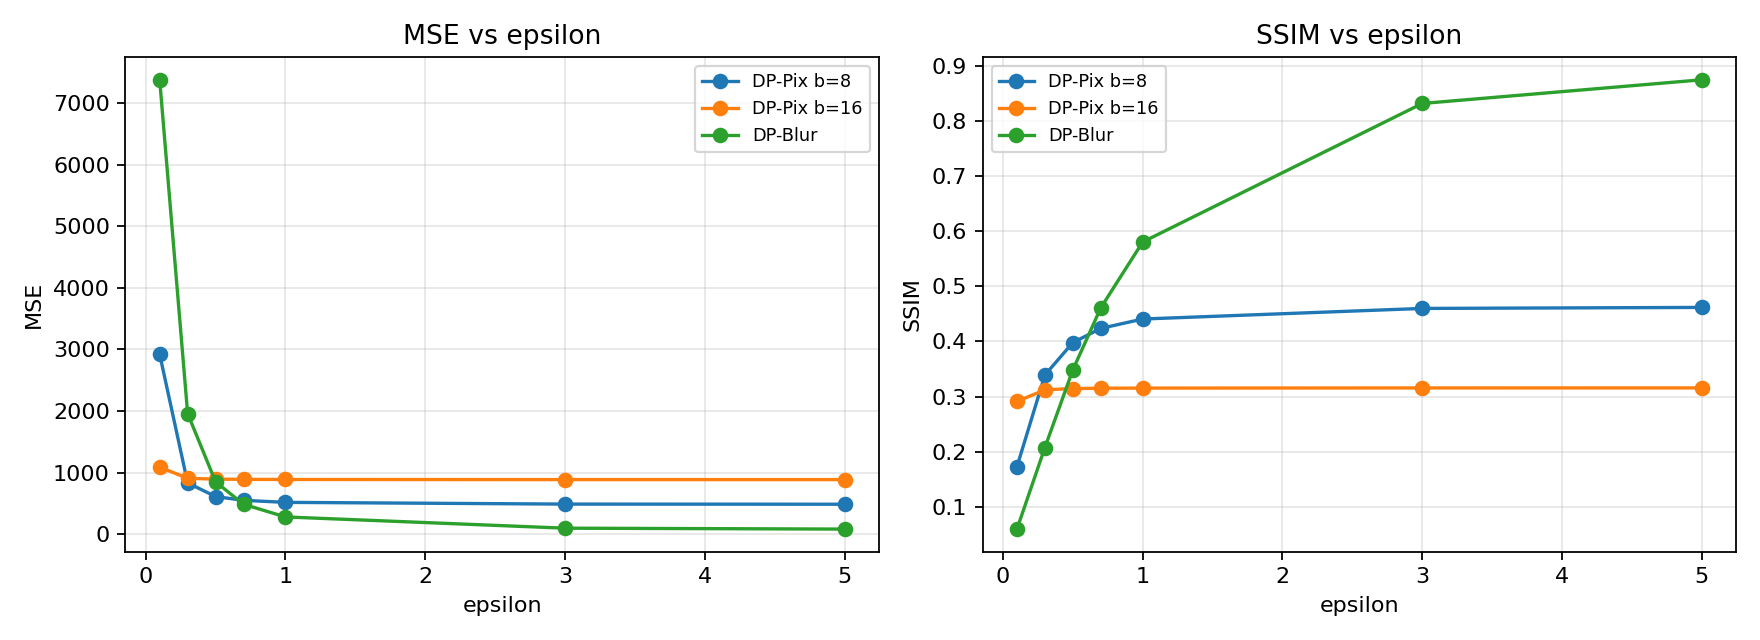
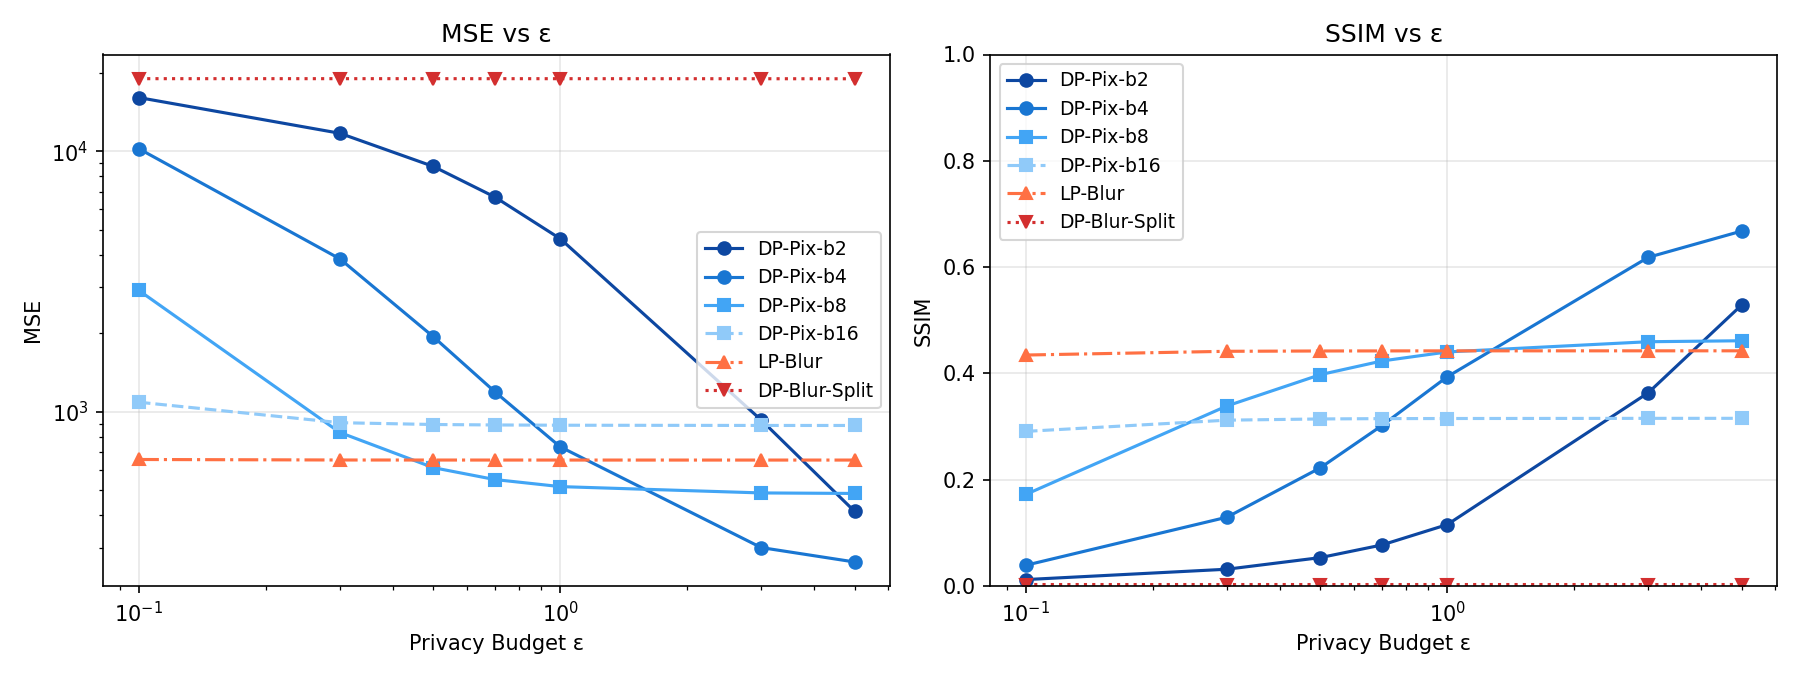
fix(plot_curves): rewrite to read metrics CSVs instead of regenerating
The old plot_curves.py imported a removed single-mechanism dp_blur and
regenerated all DP images from scratch every call. After the DP overhaul
that script no longer worked.

New behavior:
* Read data/dp/metrics.csv for MSE/SSIM and produce dp_metrics_curves.png
  with 6 method lines (DP-Pix b∈{2,4,8,16}, LP-Blur k=45, DP-Blur-Split
  k=45). Log x-axis, log-MSE / linear-SSIM.
* Read reports/dp_evaluation.csv for Top-1 attack accuracy and produce
  dp_attack_accuracy.png; gracefully skips if the CSV is missing so the
  metrics plot still works pre-training-completion.
* Accepts --metrics / --attack aliases for parity with docs/RESUME.md.

Regenerates figures/dp_metrics_curves.png to match the new metrics.csv
(46-row file with 4 b values + 2 blur mechanisms).

diff --git a/scripts/plot_curves.py b/scripts/plot_curves.py
@@ -1,152 +1,210 @@
-import numpy as np
-import cv2
+"""Plot DP utility curves (MSE/SSIM vs epsilon) and DP attack accuracy.
+
+Reads pre-computed CSVs — does NOT regenerate any DP images:
+  * --metrics-csv  (data/dp/metrics.csv)  : method, k, epsilon, MSE, SSIM, n
+  * --attack-csv   (reports/dp_evaluation.csv) : dataset, top1_acc, ...
+
+Outputs:
+  * figures/dp_metrics_curves.png    — MSE and SSIM vs ε per method
+  * figures/dp_attack_accuracy.png   — Top-1 attack accuracy vs ε per method
+"""
+
+from __future__ import annotations
+
+import argparse
 import csv
-import matplotlib.pyplot as plt
-from pathlib import Path
 from collections import defaultdict
-from skimage.metrics import structural_similarity, mean_squared_error
+from pathlib import Path
 
-from dp_pixelization import dp_pixelization
-from dp_blur import dp_blur
-
-EPSILONS    = [0.1, 0.3, 0.5, 0.7, 1.0, 3.0, 5.0]
-BLOCK_SIZES = [8, 16]
-SRC_ROOT    = "data/att_faces"
-OUT_ROOT    = "output"
+import matplotlib.pyplot as plt
 
 
-# ── 1. 載入影像 ────────────────────────────────────────────────────────────────
+# Method display order, marker, line style, and color
+STYLES = {
+    "DP-Pix-b2":      {"marker": "o", "linestyle": "-",  "color": "#0D47A1"},
+    "DP-Pix-b4":      {"marker": "o", "linestyle": "-",  "color": "#1976D2"},
+    "DP-Pix-b8":      {"marker": "s", "linestyle": "-",  "color": "#42A5F5"},
+    "DP-Pix-b16":     {"marker": "s", "linestyle": "--", "color": "#90CAF9"},
+    "LP-Blur":        {"marker": "^", "linestyle": "-.", "color": "#FF7043"},
+    "DP-Blur-Split":  {"marker": "v", "linestyle": ":",  "color": "#D32F2F"},
+}
 
-def load_images(src_root: str):
-    src = Path(src_root)
-    imgs = []
-    for pgm in sorted(src.rglob("*.pgm")):
-        img = cv2.imread(str(pgm), cv2.IMREAD_GRAYSCALE)
-        imgs.append((pgm, img))
-    return imgs
-
-
-def calc_metrics(original: np.ndarray, processed: np.ndarray):
-    mse  = mean_squared_error(original, processed)
-    ssim = structural_similarity(original, processed, data_range=255)
-    return mse, ssim
-
-
-# ── 2. ε 掃描 + 存 CSV ─────────────────────────────────────────────────────────
-
-def run_scan():
-    images = load_images(SRC_ROOT)
-    rows = []
-
-    for eps in EPSILONS:
-        # DP-Pixelization
-        for b in BLOCK_SIZES:
-            mse_list, ssim_list = [], []
-            dst = Path(OUT_ROOT) / f"dp_pix_b{b}" / f"eps{eps}"
-            dst.mkdir(parents=True, exist_ok=True)
-
-            for pgm, img in images:
-                result = dp_pixelization(img, b, eps)
-                rel = pgm.relative_to(SRC_ROOT)
-                out_path = dst / rel.with_suffix(".png")
-                out_path.parent.mkdir(parents=True, exist_ok=True)
-                cv2.imwrite(str(out_path), result)
-
-                mse, ssim = calc_metrics(img, result)
-                mse_list.append(mse)
-                ssim_list.append(ssim)
-
-            rows.append({
-                "method":  f"DP-Pix-b{b}",
-                "epsilon": eps,
-                "MSE":     float(np.mean(mse_list)),
-                "SSIM":    float(np.mean(ssim_list)),
-            })
-            print(f"DP-Pix b={b}  ε={eps}  MSE={rows[-1]['MSE']:.2f}  SSIM={rows[-1]['SSIM']:.4f}")
-
-        # DP-Blur
-        mse_list, ssim_list = [], []
-        dst = Path(OUT_ROOT) / "dp_blur" / f"eps{eps}"
-        dst.mkdir(parents=True, exist_ok=True)
-
-        for pgm, img in images:
-            result = dp_blur(img, eps)
-            rel = pgm.relative_to(SRC_ROOT)
-            out_path = dst / rel.with_suffix(".png")
-            out_path.parent.mkdir(parents=True, exist_ok=True)
-            cv2.imwrite(str(out_path), result)
-
-            mse, ssim = calc_metrics(img, result)
-            mse_list.append(mse)
-            ssim_list.append(ssim)
-
-        rows.append({
-            "method":  "DP-Blur",
-            "epsilon": eps,
-            "MSE":     float(np.mean(mse_list)),
-            "SSIM":    float(np.mean(ssim_list)),
-        })
-        print(f"DP-Blur      ε={eps}  MSE={rows[-1]['MSE']:.2f}  SSIM={rows[-1]['SSIM']:.4f}")
-
-    csv_path = Path(OUT_ROOT) / "metrics.csv"
-    csv_path.parent.mkdir(parents=True, exist_ok=True)
-    with open(csv_path, "w", newline="") as f:
-        writer = csv.DictWriter(f, fieldnames=["method", "epsilon", "MSE", "SSIM"])
-        writer.writeheader()
-        writer.writerows(rows)
-    print(f"\nmetrics saved → {csv_path}")
-    return rows
+# Map attack CSV dataset names → method labels used in the metrics CSV
+ATTACK_DATASET_TO_METHOD = {
+    "dp_pix_b2":               "DP-Pix-b2",
+    "dp_pix_b4":               "DP-Pix-b4",
+    "dp_pix_b8":               "DP-Pix-b8",
+    "dp_pix_b16":              "DP-Pix-b16",
+    "lp_blur_k45":             "LP-Blur",
+    "dp_blur_split_k45":       "DP-Blur-Split",
+}
 
 
-# ── 3. 畫曲線圖 ────────────────────────────────────────────────────────────────
+def parse_attack_name(dataset_name: str) -> tuple[str | None, float | None]:
+    """Parse ``dp_pix_b8_eps0_1`` → (DP-Pix-b8, 0.1) and similar."""
+    if "_eps" not in dataset_name:
+        return None, None
+    head, eps_token = dataset_name.rsplit("_eps", 1)
+    try:
+        eps = float(eps_token.replace("_", "."))
+    except ValueError:
+        return None, None
+    method = ATTACK_DATASET_TO_METHOD.get(head)
+    return method, eps
 
-def plot_curves(rows: list):
-    # 整理成 {method: {eps: [], MSE: [], SSIM: []}}
-    data = defaultdict(lambda: {"eps": [], "MSE": [], "SSIM": []})
-    for row in rows:
-        m = row["method"]
-        data[m]["eps"].append(row["epsilon"])
-        data[m]["MSE"].append(row["MSE"])
-        data[m]["SSIM"].append(row["SSIM"])
 
-    styles = {
-        "DP-Pix-b8":  {"marker": "o", "linestyle": "-",  "color": "#2196F3"},
-        "DP-Pix-b16": {"marker": "s", "linestyle": "--", "color": "#4CAF50"},
-        "DP-Blur":    {"marker": "^", "linestyle": "-.", "color": "#F44336"},
-    }
+def load_metrics(path: Path) -> dict[str, dict[float, dict[str, float]]]:
+    """Return ``{method: {epsilon: {"MSE": x, "SSIM": y}}}`` keyed by method."""
+    out: dict[str, dict[float, dict[str, float]]] = defaultdict(dict)
+    with path.open() as f:
+        reader = csv.DictReader(f)
+        for row in reader:
+            method = row["method"]
+            if method not in STYLES:
+                continue
+            # Only keep the main ε-scan rows (LP-Blur/DP-Blur-Split have k=45;
+            # DP-Pix has no k column populated — accept blank). Visual-only
+            # k=15/99 rows are skipped because they have only one ε value.
+            k = row.get("k") or ""
+            if method in {"LP-Blur", "DP-Blur-Split"} and k != "45":
+                continue
+            try:
+                eps = float(row["epsilon"])
+                out[method][eps] = {
+                    "MSE": float(row["MSE"]),
+                    "SSIM": float(row["SSIM"]),
+                }
+            except ValueError:
+                continue
+    return out
 
-    fig, (ax1, ax2) = plt.subplots(1, 2, figsize=(12, 4))
 
-    for method, d in data.items():
-        kw = styles.get(method, {"marker": "x", "linestyle": ":"})
-        ax1.plot(d["eps"], d["MSE"],  label=method, **kw)
-        ax2.plot(d["eps"], d["SSIM"], label=method, **kw)
+def load_attack(path: Path) -> dict[str, dict[float, float]]:
+    """Return ``{method: {epsilon: top1_acc}}``."""
+    out: dict[str, dict[float, float]] = defaultdict(dict)
+    if not path.exists():
+        return out
+    with path.open() as f:
+        for row in csv.DictReader(f):
+            method, eps = parse_attack_name(row["dataset"])
+            if method is None or eps is None:
+                continue
+            try:
+                out[method][eps] = float(row["top1_acc"])
+            except (KeyError, ValueError):
+                continue
+    return out
 
-    # MSE 圖
-    ax1.set_xlabel("Privacy Budget ε", fontsize=12)
-    ax1.set_ylabel("MSE", fontsize=12)
-    ax1.set_title("MSE vs ε", fontsize=13, fontweight="bold")
+
+def plot_metrics(
+    metrics: dict[str, dict[float, dict[str, float]]],
+    output_path: Path,
+) -> None:
+    fig, (ax1, ax2) = plt.subplots(1, 2, figsize=(12, 4.5))
+
+    for method in STYLES:
+        if method not in metrics:
+            continue
+        eps_pairs = sorted(metrics[method].items())
+        if not eps_pairs:
+            continue
+        epsilons = [e for e, _ in eps_pairs]
+        mses = [d["MSE"] for _, d in eps_pairs]
+        ssims = [d["SSIM"] for _, d in eps_pairs]
+        ax1.plot(epsilons, mses, label=method, **STYLES[method])
+        ax2.plot(epsilons, ssims, label=method, **STYLES[method])
+
+    ax1.set_xlabel("Privacy Budget ε")
+    ax1.set_ylabel("MSE")
+    ax1.set_title("MSE vs ε")
     ax1.set_xscale("log")
-    ax1.legend(fontsize=10)
+    ax1.set_yscale("log")
     ax1.grid(True, alpha=0.3)
+    ax1.legend(fontsize=9, loc="best")
 
-    # SSIM 圖
-    ax2.set_xlabel("Privacy Budget ε", fontsize=12)
-    ax2.set_ylabel("SSIM", fontsize=12)
-    ax2.set_title("SSIM vs ε", fontsize=13, fontweight="bold")
+    ax2.set_xlabel("Privacy Budget ε")
+    ax2.set_ylabel("SSIM")
+    ax2.set_title("SSIM vs ε")
     ax2.set_xscale("log")
-    ax2.legend(fontsize=10)
+    ax2.set_ylim(0, 1)
     ax2.grid(True, alpha=0.3)
+    ax2.legend(fontsize=9, loc="best")
 
-    plt.tight_layout()
-    out_path = Path(OUT_ROOT) / "curves.png"
-    plt.savefig(out_path, dpi=150)
-    plt.close()
-    print(f"curves saved → {out_path}")
+    fig.tight_layout()
+    output_path.parent.mkdir(parents=True, exist_ok=True)
+    fig.savefig(output_path, dpi=150)
+    plt.close(fig)
+    print(f"saved: {output_path}")
 
 
-# ── 4. 主程式 ──────────────────────────────────────────────────────────────────
+def plot_attack(
+    attack: dict[str, dict[float, float]],
+    output_path: Path,
+) -> None:
+    fig, ax = plt.subplots(figsize=(7, 4.5))
+
+    plotted = 0
+    for method in STYLES:
+        if method not in attack:
+            continue
+        eps_pairs = sorted(attack[method].items())
+        if not eps_pairs:
+            continue
+        epsilons = [e for e, _ in eps_pairs]
+        accs = [a for _, a in eps_pairs]
+        ax.plot(epsilons, accs, label=method, **STYLES[method])
+        plotted += 1
+
+    ax.axhline(1 / 40, color="black", linestyle=":", linewidth=1, label="Random (1/40)")
+    ax.set_xlabel("Privacy Budget ε")
+    ax.set_ylabel("Top-1 Attack Accuracy")
+    ax.set_title("CNN re-identification attack accuracy vs ε")
+    ax.set_xscale("log")
+    ax.set_ylim(0, 1)
+    ax.grid(True, alpha=0.3)
+    ax.legend(fontsize=9, loc="best")
+
+    fig.tight_layout()
+    output_path.parent.mkdir(parents=True, exist_ok=True)
+    fig.savefig(output_path, dpi=150)
+    plt.close(fig)
+    print(f"saved: {output_path}  ({plotted} methods plotted)")
+
+
+def main() -> None:
+    parser = argparse.ArgumentParser(description=__doc__)
+    parser.add_argument("--metrics-csv", default="data/dp/metrics.csv")
+    parser.add_argument("--attack-csv", default="reports/dp_evaluation.csv")
+    parser.add_argument(
+        "--metrics-output",
+        default="figures/dp_metrics_curves.png",
+    )
+    parser.add_argument(
+        "--attack-output",
+        default="figures/dp_attack_accuracy.png",
+    )
+    # Backwards-compatible aliases for the names suggested in docs/RESUME.md
+    parser.add_argument("--metrics", dest="metrics_csv", help="Alias for --metrics-csv")
+    parser.add_argument("--attack", dest="attack_csv", help="Alias for --attack-csv")
+    args = parser.parse_args()
+
+    metrics_path = Path(args.metrics_csv)
+    attack_path = Path(args.attack_csv)
+
+    if not metrics_path.exists():
+        raise FileNotFoundError(f"metrics csv not found: {metrics_path}")
+
+    metrics = load_metrics(metrics_path)
+    print(f"loaded metrics for {len(metrics)} methods from {metrics_path}")
+    plot_metrics(metrics, Path(args.metrics_output))
+
+    attack = load_attack(attack_path)
+    if attack:
+        print(f"loaded attack accuracy for {len(attack)} methods from {attack_path}")
+        plot_attack(attack, Path(args.attack_output))
+    else:
+        print(f"no attack accuracy at {attack_path}, skipping attack plot")
+
 
 if __name__ == "__main__":
-    rows = run_scan()
-    plot_curves(rows)
+    main()